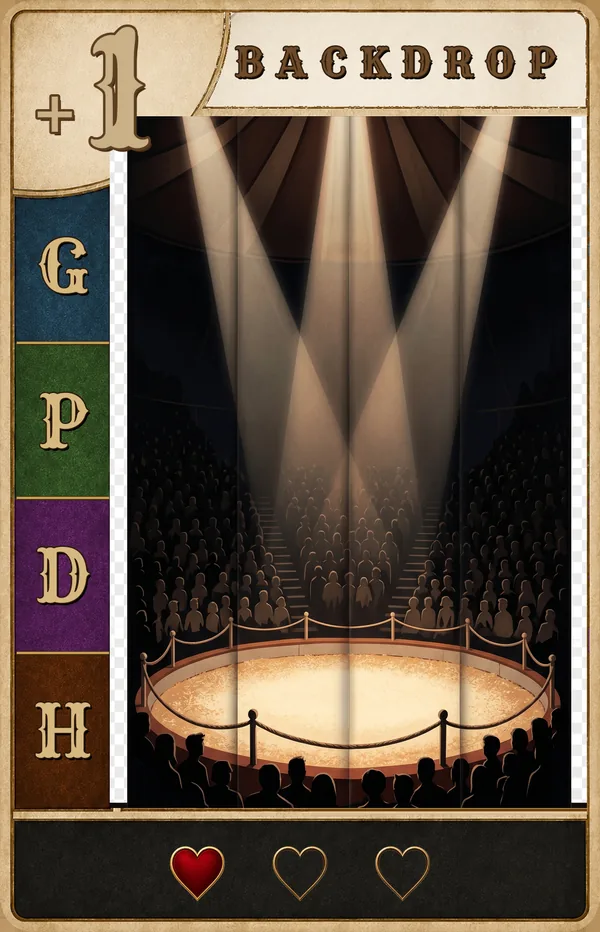
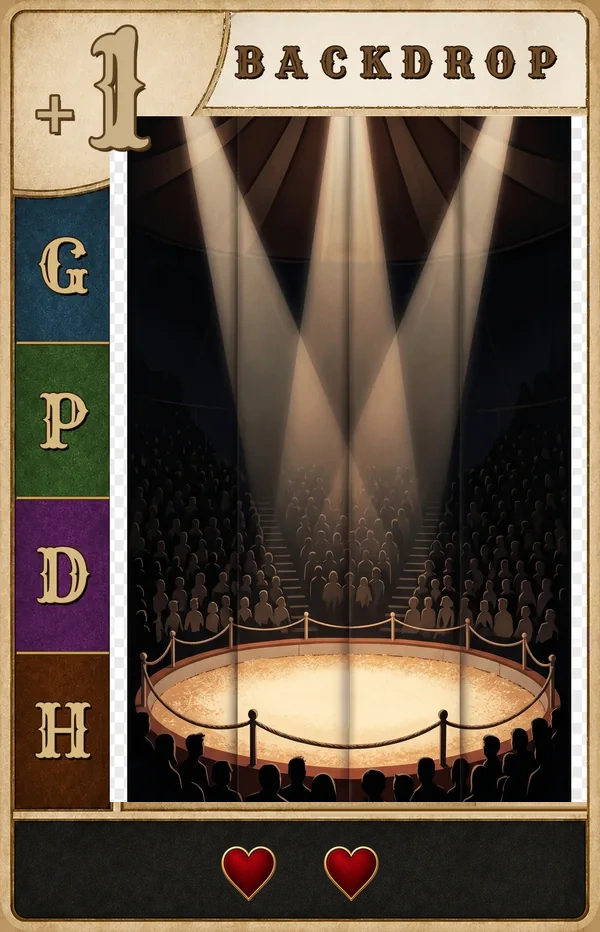
Cap Tomato dice at 7; Props/Backdrops to 2/2 hearts (data + app art); confirm multi-Favor already supported
- Tomato dice batch now caps at 7 (was 9) from round 7 onward: MAX_TOMATO_DICE
  7 in engine.js, DESIGN_BRIEF updated.
- Every Prop/Backdrop (solid-match and wildcard alike) now has
  startingHearts: 2, maxHearts: 2 in card_database.json -- acquired already
  at full hearts, no room for more. Regenerated all 20 Prop/Backdrop .webp
  app card images to show exactly 2 full hearts (previously a stale 3-pip
  1-or-2-full design from an earlier heart system), and refreshed the
  matching print-template masters in Cards/. DESIGN_BRIEF and rules.test.js
  updated to match; new regression test covers earned hearts being
  forfeited when only a maxed Prop/Backdrop occupies the board.
- Spending multiple Favors before your main action in the same turn window
  was already fully implemented and tested (commit 68a605b) -- verified via
  the existing test suite, no code change needed.

Tests: 64/64 rules, 12/12 full-game simulations passing. Client rebuilt.

Changed region(s): [[0.27, 0.9024, 0.72, 0.9646], [0.18, 0.8401, 0.99, 0.8712]]

diff --git a/test/rules.test.js b/test/rules.test.js
@@ -339,39 +339,35 @@ test('heart-resource cards prompt assignment, capped by capacity', () => {
   assert.equal(s.hearts[perf], 1);
 });
 
-test('Props/Backdrops start below their printed max and can receive more hearts', () => {
+test('Props/Backdrops start at their full printed max (2/2) with no room for more hearts', () => {
   const s = freshGame(2);
   const seat = currentSeat(s);
   const p = s.players[seat];
-  // A solid-bar Prop: starts with 2 filled hearts, 1 empty (max 3 total).
+  // Every Prop/Backdrop, solid-bar or wildcard alike, now starts full: 2
+  // filled hearts, printed max of 2 — so there's never room for more.
   const solidProp = db.propsAndBackdrops.find((c) => c.id === 'Prop-Graceful');
   assert.equal(solidProp.startingHearts, 2);
-  assert.equal(solidProp.maxHearts, 3);
+  assert.equal(solidProp.maxHearts, 2);
   p.slots[6] = solidProp.id;
   s.hearts[solidProp.id] = solidProp.startingHearts;
-  assert.equal(maxHearts(s, seat, solidProp.id), 3);
-  assert.equal(capacityLeft(s, seat, solidProp.id), 1, 'room for exactly 1 more heart');
-  // A wildcard Prop: starts with 1 filled heart, 2 empty (max 3 total).
+  assert.equal(maxHearts(s, seat, solidProp.id), 2);
+  assert.equal(capacityLeft(s, seat, solidProp.id), 0, 'starts full — no room for more hearts');
   const wildProp = db.propsAndBackdrops.find((c) => c.id === 'Prop-Any-Characteristic');
-  assert.equal(wildProp.startingHearts, 1);
-  assert.equal(wildProp.maxHearts, 3);
+  assert.equal(wildProp.startingHearts, 2);
+  assert.equal(wildProp.maxHearts, 2);
   p.slots[6] = wildProp.id;
   s.hearts[wildProp.id] = wildProp.startingHearts;
-  assert.equal(capacityLeft(s, seat, wildProp.id), 2, 'room for exactly 2 more hearts');
-  // Actually acquiring a Heart resource card offers the Prop as a target and
-  // lets the player fill it up to (but not past) its printed max.
-  s.hearts[wildProp.id] = wildProp.startingHearts;
+  assert.equal(capacityLeft(s, seat, wildProp.id), 0, 'starts full — no room for more hearts');
+
+  // Earned hearts are forfeited (not left dangling as a pending prompt) when
+  // every card on the board — a maxed-out Prop, nothing else — has no room.
+  p.slots = [null, null, null, null, null, null, wildProp.id, null];
+  p.reserve = [];
   const heart3 = firstOfName(db.resources, 'Resource 3 Hearts');
   s.draftRow = [heart3, s.draftRow[1], s.draftRow[2]];
   applyAction(s, { type: 'acquireDraft', seat, cardId: heart3 });
-  const pending = s.pending.find((x) => x.kind === 'heartAssign');
-  assert.ok(pending);
-  assert.throws(() =>
-    applyAction(s, { type: 'resolvePending', seat, pendingId: pending.id, assignments: [{ cardId: wildProp.id, amount: 3 }] }),
-    'cannot exceed the printed max of 3'
-  );
-  applyAction(s, { type: 'resolvePending', seat, pendingId: pending.id, assignments: [{ cardId: wildProp.id, amount: 2 }] });
-  assert.equal(s.hearts[wildProp.id], 3);
+  assert.ok(!s.pending.some((x) => x.kind === 'heartAssign'), 'no room anywhere on the board — nothing to assign');
+  assert.equal(s.hearts[wildProp.id], 2, 'the maxed Prop is untouched');
 });
 
 test('favor cards go to reserve; clicking one before your main turn grants a bonus turn', () => {

diff --git a/engine/engine.js b/engine/engine.js
@@ -59,7 +59,7 @@ export const TRAINERS = {
   EZRA: 'Ezra-the-Sleight-of-Hand',
 };
 
-const MAX_TOMATO_DICE = 9; // the physical game has 9 tomato dice
+const MAX_TOMATO_DICE = 7; // rolled dice cap at 7 from round 7 onward (physical set has 9 tomato dice)
 
 // First trophy-holder to this many Trophies wins. Fewer players means fewer
 // people splitting the round-by-round trophies, so the threshold rises as
@@ -195,11 +195,11 @@ export function activeTrainers(state, seat) {
 
 // Max hearts a card can hold. This is its printed capacity — which is NOT
 // always the same as how many hearts it starts with. Props/Backdrops, for
-// instance, start at 2 (solid) or 1 (wildcard) filled hearts but can hold up
-// to 3 total (their card_database.json `maxHearts` field carries this;
-// falls back to `startingHearts` for card types where capacity and starting
-// fill are the same, e.g. Trainers always start full and Performers have no
-// separate printed max).
+// instance, start at 2 filled hearts and cap at 2 total — i.e. they start
+// full (their card_database.json `maxHearts` field carries this; falls back
+// to `startingHearts` for card types where capacity and starting fill are
+// the same, e.g. Trainers always start full and Performers have no separate
+// printed max).
 export function maxHearts(state, seat, cardId) {
   const c = card(cardId);
   if (!SLOTTABLE.has(c.cardType)) return 0;

diff --git a/DESIGN_BRIEF.md b/DESIGN_BRIEF.md
@@ -53,7 +53,7 @@ Build the most legendary troupe of performers by earning Trophies. First to the 
    - **Roll all 5 shared Collection Dice, one at a time, revealed live.** Each die is rolled, shown on screen, and left visible before the next one rolls — building up a row of 5 — so spectators can actually watch the round unfold; a live table of each player's resources earned so far this round updates as each die locks in. For each die result (a letter A-H) once locked, every player who has a Performer on their mat with that Letter collects: if that performer's printed resource is Star or Coin, place the token on the player's central token pool (not on the card); if it's a Heart, immediately assign it to any of that player's starter or reserve cards up to that card's max heart capacity.
    - **Assign the Trophy:** whoever earned the most Stars this round takes a Trophy token. Tie → most Coins overall (each tied player's total/career coin count, not just coins earned this round) wins it. Still tied → all tied players take a Trophy. The trophy winner(s) must then remove 1 heart from each of their "starters" (their 8 mat-slot cards — Performers, Backdrop, Prop, and Trainer — see "Rules the written doc left open" for why this includes non-Performer slots). Do not refill empty slots yet.
    - **Assign new Draft Order:** fewest Stars this round → stand "1" (goes first next round). Next fewest → stand "2", etc. Tie → fewer Coins gets the better (lower) stand. Still tied → fewer total Trophies gets the better stand. Still tied → roll-off.
-   - **Roll Tomato dice, as one batch.** Roll a number of D8 Tomato dice equal to the current round number (round 1 = 1 die, round 2 = 2 dice, etc), all at once, and leave the whole batch visible before it locks. Between the roll and the lock, if the round's Mesmera the Veiled holder wants to, they may re-roll the entire batch once (see the Trainer table below). Once locked, for every rolled number 1-8, every player removes 1 heart from whatever currently occupies that slot number on their own mat. Every card also survives the hit that brings it to 0 printed hearts (per the owner's ruling) — reaching 0 hearts does not, by itself, discard a card. Only the *next* hit taken while a card is already at 0 hearts actually discards it. So a 1-heart card takes exactly 2 hits total to leave the stage, and a card that starts at 0 printed hearts discards on its very first hit. This applies to both Tomato-die hits and trophy-winner heart removal above.
+   - **Roll Tomato dice, as one batch.** Roll a number of D8 Tomato dice equal to the current round number (round 1 = 1 die, round 2 = 2 dice, etc), capping at 7 dice from round 7 onward, all at once, and leave the whole batch visible before it locks. Between the roll and the lock, if the round's Mesmera the Veiled holder wants to, they may re-roll the entire batch once (see the Trainer table below). Once locked, for every rolled number 1-8, every player removes 1 heart from whatever currently occupies that slot number on their own mat. Every card also survives the hit that brings it to 0 printed hearts (per the owner's ruling) — reaching 0 hearts does not, by itself, discard a card. Only the *next* hit taken while a card is already at 0 hearts actually discards it. So a 1-heart card takes exactly 2 hits total to leave the stage, and a card that starts at 0 printed hearts discards on its very first hit. This applies to both Tomato-die hits and trophy-winner heart removal above.
    - **Review pause:** once both the 5 shared Collection Dice and the Tomato batch have fully resolved, every player gets a blocking prompt to look over the round's results (the earned-resources table, hearts lost, etc.) before continuing — a "Continue" click, required from every seat, with no other effect on the game (bots resolve theirs instantly; it only meaningfully pauses for a human).
    - **Refill:** any now-empty mat slots (from tomato hits or trophy heart removal that emptied a card) are refilled from that player's reserve, if they have a suitable card there.
 4. **Next round:** lay out `(players x 2) + 1` new draft cards, add 1 more Tomato die to next round's roll, and repeat from step 2.
@@ -63,7 +63,7 @@ First to reach the Trophy threshold wins, based on player count: 2 players → 6
 
 ### Card-type handling
 - **Performers** (64): the core troupe cards — Characteristic (Graceful/Powerful/Dramatic/Haunting), Type (Singer/Dancer/Acrobat/Illusionist), Gender, Letter (A-H, drives Collection Die matches), Resource (Star/Heart/Coin), starting Hearts (0-2, `startingHearts` in `card_database.json`), heart capacity (1-3, `maxHearts` — the total heart pips printed at the bottom of the card, filled + empty; NOT always equal to `startingHearts`, so a performer frequently starts below its own max and can receive more hearts later), and Power Dots (1-4, currently flavor/unused by any written rule — surface it in the UI but it has no mechanical effect unless you find one implied elsewhere). Both `startingHearts` and `maxHearts` were re-derived directly from the printed card art (counting filled vs. empty heart icons per card) after the original data proved stale relative to the final regenerated card images.
-- **Backdrop/Prop** (10 unique effects each, one copy of each = 20 cards): occupy the Backdrop or Prop mat slot. See `card_database.json` for each card's `boostKind` (characteristic or type), `boosts` (which value(s) it matches — the 2 wildcard cards per set match all 4 characteristics or all 4 types), `startingHearts` (2 for the 8 single-match cards, 1 for the 2 wildcard cards — how many hearts it holds when acquired), and `maxHearts` (3 for every Backdrop/Prop — its total heart capacity, matching the printed card's full+empty heart icons; a solid card can gain 1 more heart, a wildcard card can gain 2 more, via Heart resource cards or Collection Die heart payouts). Effect (see "Rules the written doc left open" below for sourcing): when a Collection Die causes a Performer on the same player's board to collect, and that Performer's characteristic/type matches the player's equipped Backdrop or Prop, that performer collects +1 extra unit of their printed resource. **Per the owner's clarification, the 2 wildcard cards per set (the "Any Characteristic"/"Any Type" ones, printed with all 4 initials — G/P/D/H or S/D/A/I) only activate at all once the player has at least one active Performer (one of their 5 Performer slots) covering every one of those 4 values; until then they're dormant and grant no boost to anyone, even a Performer that would otherwise match one of the 4 listed values.** The 8 single-match cards (`boosts` list of length 1) have no such gate — they work immediately, as before. Implemented in `engine.js`'s `hasFullSet()`/`boostCount()`.
+- **Backdrop/Prop** (10 unique effects each, one copy of each = 20 cards): occupy the Backdrop or Prop mat slot. See `card_database.json` for each card's `boostKind` (characteristic or type) and `boosts` (which value(s) it matches — the 2 wildcard cards per set match all 4 characteristics or all 4 types). Every Backdrop/Prop, solid-match or wildcard alike, has `startingHearts: 2` and `maxHearts: 2` — it's acquired already at full hearts and has no room for more (a Heart resource card or Collection Die heart payout simply has nowhere to place a heart on it; those hearts get routed to another card with room, or forfeited if nothing has room). Effect (see "Rules the written doc left open" below for sourcing): when a Collection Die causes a Performer on the same player's board to collect, and that Performer's characteristic/type matches the player's equipped Backdrop or Prop, that performer collects +1 extra unit of their printed resource. **Per the owner's clarification, the 2 wildcard cards per set (the "Any Characteristic"/"Any Type" ones, printed with all 4 initials — G/P/D/H or S/D/A/I) only activate at all once the player has at least one active Performer (one of their 5 Performer slots) covering every one of those 4 values; until then they're dormant and grant no boost to anyone, even a Performer that would otherwise match one of the 4 listed values.** The 8 single-match cards (`boosts` list of length 1) have no such gate — they work immediately, as before. Implemented in `engine.js`'s `hasFullSet()`/`boostCount()`.
 - **Trainer** (20 unique, 1 copy each — 10 original + 10 added later): occupy slot 6, 7, or 8 (a player may have up to 3 active Trainers at once — see "Multi-Trainer slots" below), 3 starting hearts (except Valentino at 1, Higgins at 2), grants a unique passive/activatable ability — see the table below.
 
 ### Multi-Trainer slots
